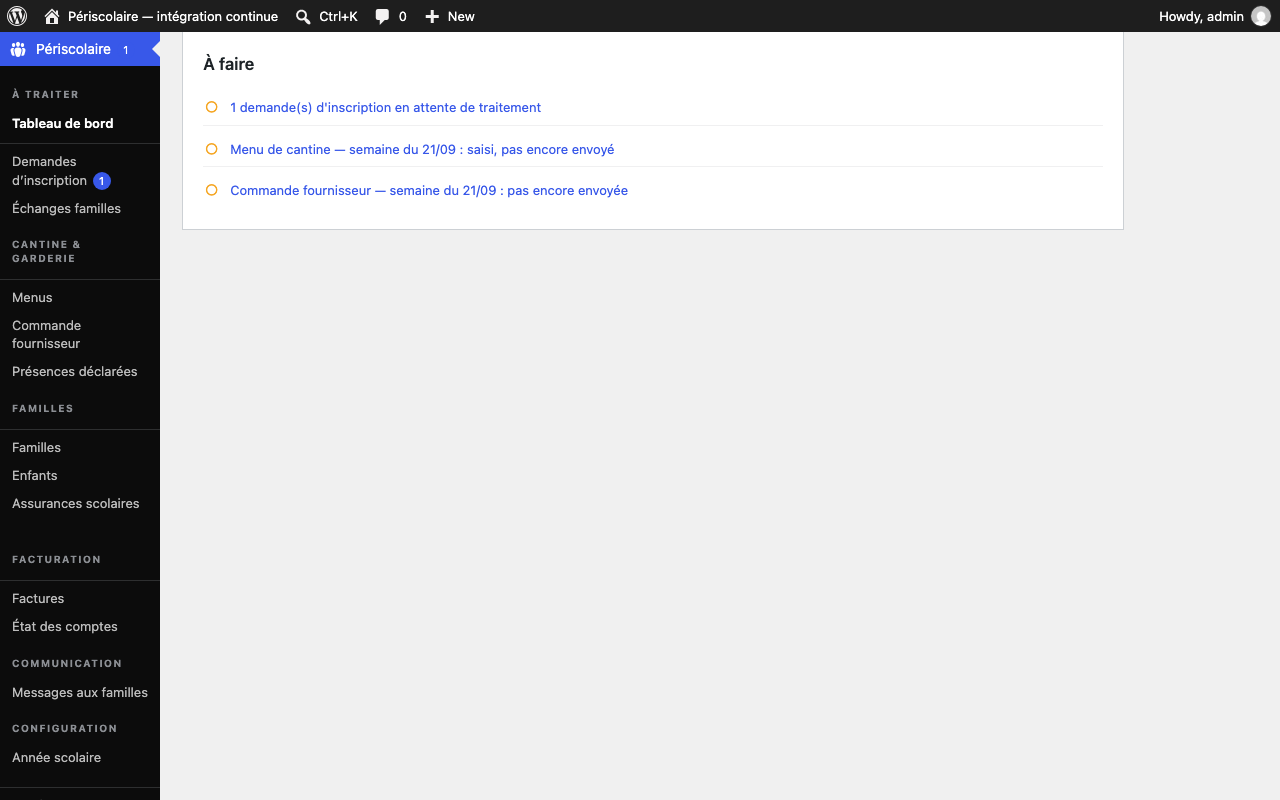
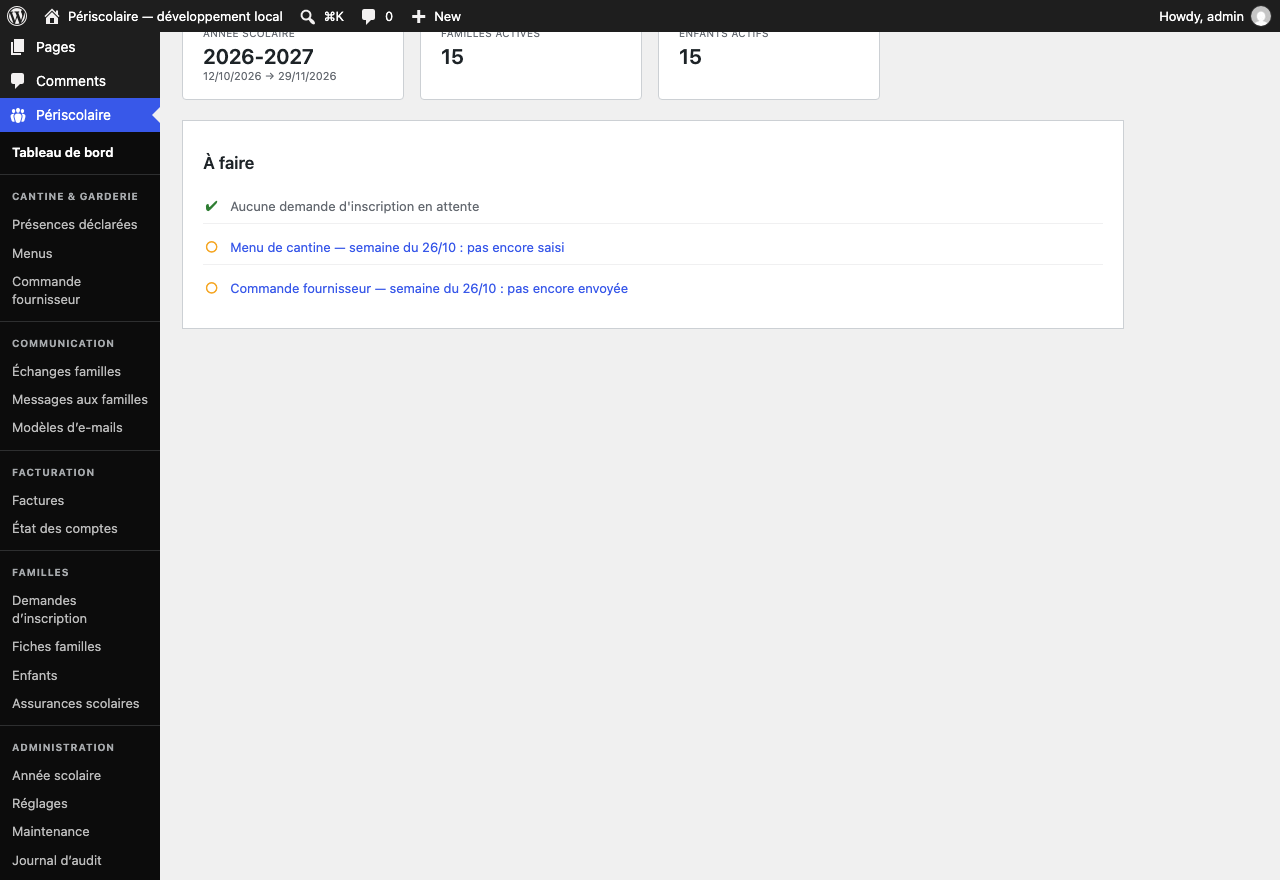
docs: capture du menu Périscolaire classé par domaine
Capture refaite à part (même page et mêmes réglages que
scripts/screenshots/capture.spec.ts, hauteur portée à 880 px pour que le
menu tienne en entier), sans les alertes propres au poste local. Le script
de captures attend désormais les cinq nouveaux intitulés de section.

Claude-Session: https://claude.ai/code/session_01JjbusyBQDpFka9m4dZ3TRz

Changed region(s): [[0.0, 0.0, 1.0, 1.0], [0.1562, 0.125, 0.5, 0.25], [0.1562, 0.2812, 0.5, 0.3438]]

diff --git a/scripts/screenshots/capture.spec.ts b/scripts/screenshots/capture.spec.ts
@@ -91,17 +91,16 @@ test.describe.serial('Captures de la documentation administrateur', () => {
     await capture(page, 'dashboard-a-faire.png');
   });
 
-  test('menu Périscolaire — six sections', async ({ page }) => {
+  test('menu Périscolaire — cinq sections par domaine', async ({ page }) => {
     await openAdmin(page, 'admin.php?page=psc_dashboard');
     const menu = page.locator('#toplevel_page_psc_dashboard');
     await frame(page, menu);
     for (const label of [
-      'À traiter',
       'Cantine & garderie',
-      'Familles',
-      'Facturation',
       'Communication',
-      'Configuration',
+      'Facturation',
+      'Familles',
+      'Administration',
     ]) {
       await expect(menu.locator('.psc-menu-section', { hasText: label })).toBeVisible();
     }

diff --git a/documentation/demarrage-rapide.md b/documentation/demarrage-rapide.md
@@ -22,7 +22,7 @@ Connectez-vous à WordPress avec un rôle autorisé à gérer le périscolaire. 
 
 5. Si **Aucune année scolaire configurée — définissez dates, vacances et fériés pour ouvrir le planning** apparaît, créez et configurez l'année scolaire. Si **L'année scolaire se termine dans … jour(s) — préparez la suivante** (ou **L'année scolaire est terminée — configurez la suivante**) apparaît, préparez la prochaine année avant la rentrée.
 
-   ![Sections du menu Périscolaire regroupant les écrans de configuration, de gestion quotidienne et de facturation](assets/screenshots/menu-periscolaire-sections.png)
+   ![Menu Périscolaire : Tableau de bord, puis les sections Cantine & garderie, Communication, Facturation, Familles et Administration](assets/screenshots/menu-periscolaire-sections.png)
 
 6. Poursuivez avec [Configuration](configuration/annee-scolaire.md) pour la première mise en service, puis utilisez [Gestion au quotidien](gestion-quotidienne/tableau-de-bord.md) pour le suivi courant. Ces pages détaillent chaque écran sans reprendre cette check-list.
 
